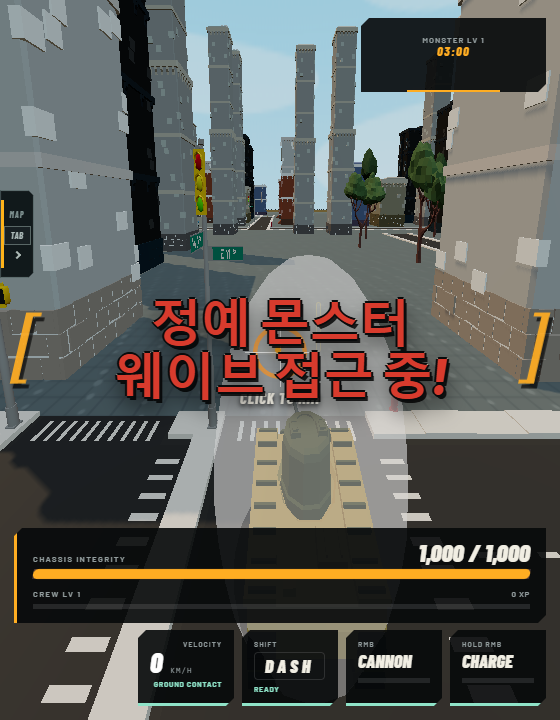
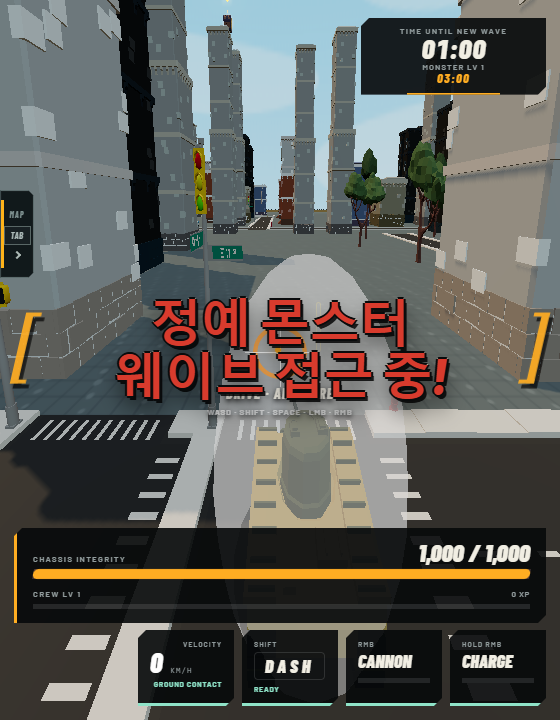
Finalize integrated patch batch artifacts

diff --git a/docs/final-patch-batch/workstream-03-landing-ground-pound/LANDING_GROUND_POUND_IMPLEMENTATION_REPORT.md b/docs/final-patch-batch/workstream-03-landing-ground-pound/LANDING_GROUND_POUND_IMPLEMENTATION_REPORT.md
@@ -4,8 +4,9 @@
 
 - Branch: `feature/final-landing-ground-pound`
 - Audit/start SHA: `4fd9af32605b04d8ff95f7d11bffc4c72885a988`
-- Feature checkpoint SHA: `0edd863f54364519b6c84a3dc7e9f4092a114b23`
-- Final implementation SHA: recorded after prerequisite rebase and final verification
+- Pre-rebase feature checkpoint SHA: `0edd863f54364519b6c84a3dc7e9f4092a114b23`
+- Ending product SHA after prerequisite rebase: `5f3021aa9efb00c0424b9606115270b9d146c3af`
+- Final branch/report SHA: `f58e1b1fb921c06cc295b6a53fafe4d173c56866`
 - Binding design: `LANDING_AND_GROUND_POUND_DESIGN.md`
 
 The audit covered `matchRuntime.ts`, `tankKinematics.ts`, shared event types,
@@ -224,6 +225,8 @@ Final post-rebase results are appended below.
 
 ## Final integration and post-rebase verification
 
-Pending the required localization and machine-gun prerequisite commits. This
-section records the rebase base, final SHA, complete test results, and any
-post-integration conflict resolutions before merge handoff.
+The branch was rebased after localization, boundary, and Machine Gun. Conflict
+resolution preserved the localized presentation callback, the Machine Gun
+event/audio paths, and the final Ground Pound tuning. TypeScript, 112 focused
+cross-workstream tests, and both Single Player and Driver/Gunner browser flows
+passed before the no-fast-forward integration merge.

diff --git a/docs/final-patch-batch/workstream-01-localization-settings/LOCALIZATION_SETTINGS_IMPLEMENTATION_REPORT.md b/docs/final-patch-batch/workstream-01-localization-settings/LOCALIZATION_SETTINGS_IMPLEMENTATION_REPORT.md
@@ -3,6 +3,7 @@
 Date: 2026-08-10
 Branch: `feature/final-localization-settings-copy`
 Main-derived base SHA: `4fd9af32605b04d8ff95f7d11bffc4c72885a988`
+Ending product SHA: `0aa6773e4b0c21c2cd95062e076acfe6176804bb`
 
 ## Delivered
 
@@ -23,12 +24,16 @@ npm run audit:localization
 
 | Measure | Count |
 | --- | ---: |
-| English keys | 453 |
-| Korean keys | 453 |
+| English keys | 460 |
+| Korean keys | 460 |
 | Missing Korean keys | 0 |
 | Extra Korean keys | 0 |
 | Audited authored literals | 317 |
 | Authored literals with direct key metadata | 99 |
+
+The localization workstream supplied 453 paired catalog keys. The integrated
+Machine Gun and phase-announcement workstreams added seven paired domain keys,
+bringing the final catalogs to 460 keys with full English/Korean parity.
 
 Untranslated exceptions are deliberate language-neutral material: the `RECOIL CREW` mark, `RC` unit marks, keyboard/mouse glyphs, numbers, player nicknames, room codes, and user-authored chat. Scene/editor labels and preview fixture values are not shipped presentation copy. Internal content IDs remain in data and network payloads but are resolved to catalog copy before display.
 

diff --git a/docs/final-patch-batch/workstream-02-machine-gun/MACHINE_GUN_IMPLEMENTATION_REPORT.md b/docs/final-patch-batch/workstream-02-machine-gun/MACHINE_GUN_IMPLEMENTATION_REPORT.md
@@ -6,10 +6,11 @@ Branch: `feature/final-machine-gun-pass`
 ## Revision audit
 
 - Starting SHA: `4fd9af32605b04d8ff95f7d11bffc4c72885a988`
-- Ending product SHA: `606aa07bd19f3fcbc7096271a172aed82e8841c2`
+- Ending product SHA after the required integration rebase: `3164922fc7f0e84029001e3a015804599c19ab17`
+- Final branch/report SHA: `67d8096c0151112d11d3b3dcbb56b61550c473af`
 - Audited `origin/main`: `7717abcaab7a41a0ef2268985f507733d909f58b`
 - The implementation was committed on the requested branch at the ending product SHA above. The subsequent report-only commit records that immutable product revision.
-- `feature/final-localization-settings-copy` was an ancestor at the same starting SHA. Its implementation had not diverged when this work began; rebase this branch onto the eventual localization/settings integration before final merge.
+- `feature/final-localization-settings-copy` was an ancestor at the same starting SHA. Its implementation had not diverged when this work began; this branch was subsequently rebased onto the localization/settings and boundary integration before final merge.
 
 ## Final base weapon
 

diff --git a/docs/final-patch-batch/workstream-05-phase-announcements/PHASE_ANNOUNCEMENT_IMPLEMENTATION_REPORT.md b/docs/final-patch-batch/workstream-05-phase-announcements/PHASE_ANNOUNCEMENT_IMPLEMENTATION_REPORT.md
@@ -4,7 +4,8 @@
 
 - Branch: `feature/final-phase-announcements`
 - Starting SHA: `4fd9af32605b04d8ff95f7d11bffc4c72885a988`
-- Ending product SHA: `0916d9d9b85334f61736489256af656f446e2d2d`
+- Ending product SHA after the required integration rebase: `e5eb91b47b58f9a140b9b34479025f7b2eca5f0f`
+- Final branch/report SHA: `6db3c5a5a6f98fc3945c82be9a1134f9c72a6bbc`
 - Binding design: `PHASE_ANNOUNCEMENT_BANNERS_DESIGN.md`
 - Audit scope: `src/shared/stage/`, `src/shared/horde/`, the client HUD and UI paths, `presentationEventRouter.ts`, procedural and soundtrack audio, `content/horde/stageSequenceProduction.json`, and the current EN/KO localization catalogs.
 

diff --git a/docs/final-patch-batch/workstream-04-arena-boundary/ARENA_BOUNDARY_IMPLEMENTATION_REPORT.md b/docs/final-patch-batch/workstream-04-arena-boundary/ARENA_BOUNDARY_IMPLEMENTATION_REPORT.md
@@ -4,7 +4,8 @@
 
 - Branch: `feature/final-arena-boundary`
 - Starting SHA: `4fd9af32605b04d8ff95f7d11bffc4c72885a988`
-- Boundary implementation commit: `1db2a95d265cdf63be0fb31e98e38e268c1d891b`
+- Ending product SHA after the required integration rebase: `739abb1a70560dbd7a9878d1a56c2c145cb253a1`
+- Final branch/report SHA: `d9e649eabc96f3be07f775083646f997e814a5ec`
 - Binding design: `ARENA_BOUNDARY_CLEANUP_DESIGN.md`
 - Production gameplay exterior apron: disabled, zero placements, zero draw calls
 - Primary 400×400 boundary: enabled on all four authoritative bounds
